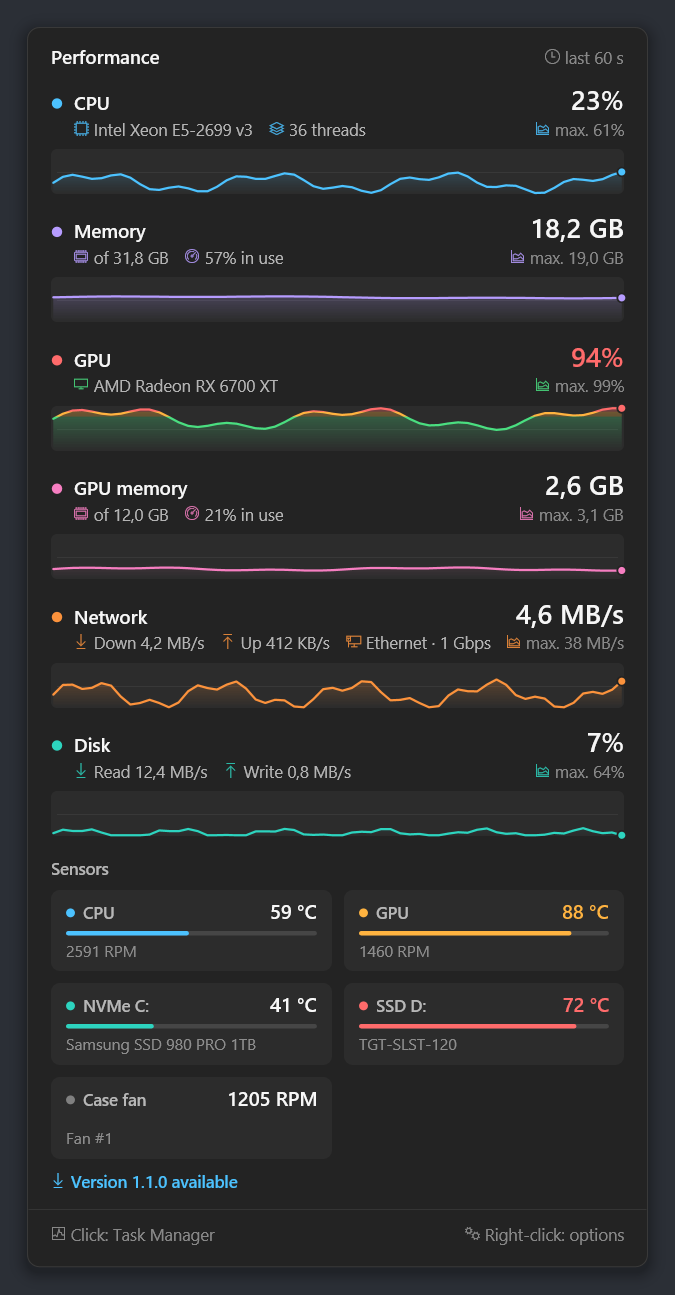
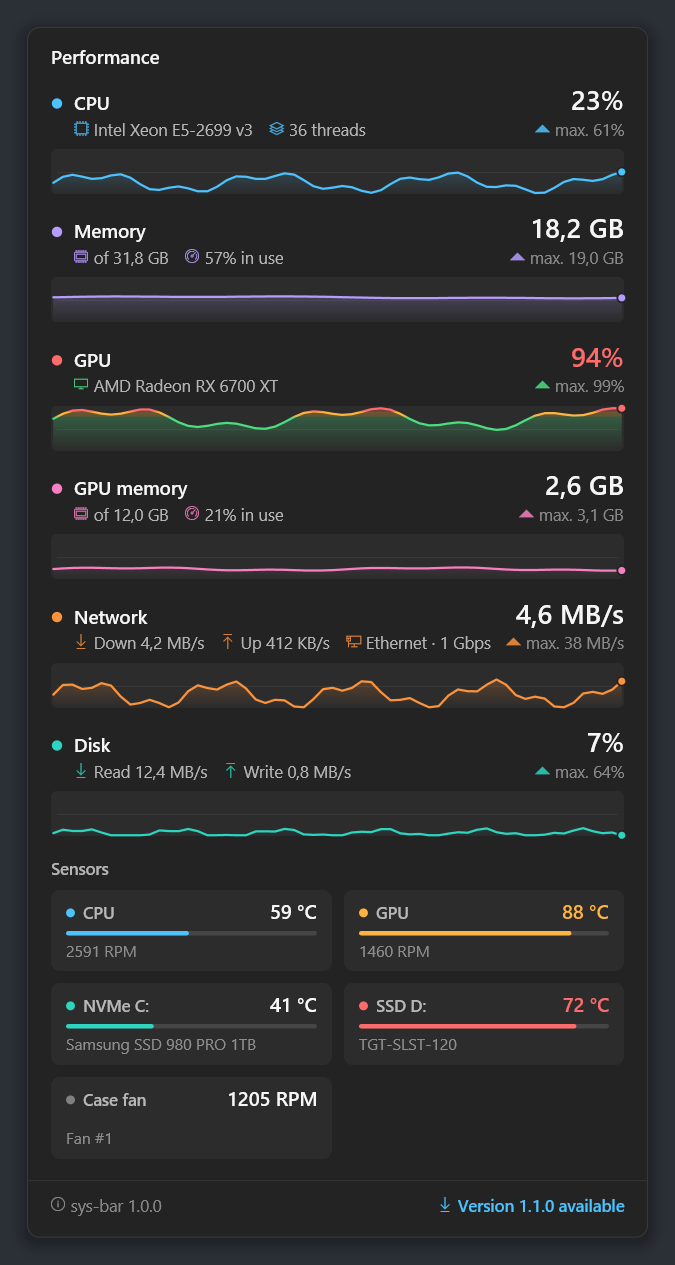
fix: a refused sensors install leaves the service running; solid caret for the peak
The elevated install now reads and checks every file before stopping the running service, and starts it again on any failure (found by the end-to-end test with a tampered library: the install was refused, but the service had been stopped). Peak icon: solid caret up. CHANGELOG/README: multi-monitor, card icons and footer, hardened elevation; screenshots refreshed.

diff --git a/sensors/Installer.cs b/sensors/Installer.cs
@@ -38,16 +38,15 @@ namespace SysBar.Sensors
         {
             if (!IsAdministrator()) return ExitNotAdmin;
             string source = AppDomain.CurrentDomain.BaseDirectory;
+            bool stopped = false;
             try
             {
-                // Our own image first, through a handle that also blocks renames: the running file cannot be
-                // swapped under us between now and the copy.
-                byte[] self = Manifest.ReadLocked(Path.Combine(source, ExeName));
-                StopService();
-
+                // Everything is read and checked before the running service is touched: a refused install
+                // leaves the installed one exactly as it was, running. Our own image is read through a
+                // handle that also blocks renames, so the running file cannot be swapped under us.
+                var files = new List<KeyValuePair<string, byte[]>>();
                 if (!SamePath(source, Target))
                 {
-                    Directory.CreateDirectory(Target);
                     Dictionary<string, string>? manifest = Manifest.Load();
                     if (manifest == null) Log.Write("install: development build (no manifest), copying by file type");
                     IEnumerable<string> names = manifest?.Keys ??
@@ -62,15 +61,27 @@ namespace SysBar.Sensors
                             Log.Write($"install refused: {name} does not match this release");
                             return ExitFailed;
                         }
-                        Manifest.WriteAtomic(Path.Combine(Target, name), data);
+                        files.Add(new KeyValuePair<string, byte[]>(name, data));
                     }
-                    Manifest.WriteAtomic(Path.Combine(Target, ExeName), self);
+                    files.Add(new KeyValuePair<string, byte[]>(ExeName, Manifest.ReadLocked(Path.Combine(source, ExeName))));
+                }
+
+                stopped = true;
+                StopService();
+                if (files.Count > 0)
+                {
+                    Directory.CreateDirectory(Target);
+                    foreach (var file in files) Manifest.WriteAtomic(Path.Combine(Target, file.Key), file.Value);
                 }
 
                 if (!DriverInstalled("PawnIO"))
                 {
                     int result = InstallPawnIO(source);
-                    if (result != ExitOk) return result;
+                    if (result != ExitOk)
+                    {
+                        TryStartService();
+                        return result;
+                    }
                 }
 
                 string exe = Path.Combine(Target, "sys-bar-sensors.exe");
@@ -96,7 +107,22 @@ namespace SysBar.Sensors
             catch (Exception e)
             {
                 Log.Write($"install failed: {e}");
+                if (stopped) TryStartService();  // never leave a working installation stopped
                 return ExitFailed;
+            }
+        }
+
+        private static void TryStartService()
+        {
+            try
+            {
+                if (!ServiceExists()) return;
+                using var service = new ServiceController(SensorService.Name);
+                if (service.Status == ServiceControllerStatus.Stopped) service.Start();
+            }
+            catch (Exception e)
+            {
+                Log.Write($"restart after a failed install failed: {e.Message}");
             }
         }
 

diff --git a/src/icons.h b/src/icons.h
@@ -14,7 +14,7 @@ constexpr wchar_t kDown = 0xE896;     // read / download
 constexpr wchar_t kUp = 0xE898;       // write / upload
 constexpr wchar_t kEthernet = 0xE839;
 constexpr wchar_t kWifi = 0xE701;
-constexpr wchar_t kPeak = 0xE9D2;   // area chart
+constexpr wchar_t kPeak = 0xEDDB;   // solid caret up
 constexpr wchar_t kPower = 0xE945;  // lightning bolt
 constexpr wchar_t kBattery = 0xEBA7;
 constexpr wchar_t kCharging = 0xEBB5;

diff --git a/CHANGELOG.md b/CHANGELOG.md
@@ -31,6 +31,11 @@ First public release.
   utilization in the strip and a self-scaling graph in the card. Off by default, enabled from the menu.
 - Battery (laptops only): charge, charging state, power in watts and time left; amber at 20% and red at 10%
   when unplugged.
+- A strip on every taskbar: other monitors too (Windows 10 classic and Windows 11 layouts), each with its own
+  size, DPI and hover card; monitors coming and going are followed live. "Show on all taskbars" in the menu.
+  On Windows 11, where the clock has no window of its own, its position is measured through UI Automation.
+- Icons in the card's details (processor, memory, GPU, drive, read/write, network, peak, battery) and a footer
+  with the version and the update status (checking, up to date, new version available).
 - The card always fits the screen: drives are shown side by side, and on short screens it widens, then
   shortens its graphs, instead of running off the screen. Long texts wrap instead of being cut.
 - Temperatures without drivers or administrator rights: GPU temperature and fan speed (WDDM 2.7+), NVMe/SSD
@@ -49,6 +54,10 @@ First public release.
 - Recovers automatically when Explorer restarts, the GPU driver resets or the display layout
   changes; pauses sampling while the display is off or the session is locked.
 - Installer (per-user, no administrator rights, x64 and ARM64) and portable zips.
+- Hardened elevation: the one elevated step (installing the advanced sensors) takes nothing on trust from the
+  per-user folder it starts from: every library must match a SHA-256 manifest built into the executable, and
+  the PawnIO installer a pinned hash. Silent updates never ask for elevation; removal runs the copy in Program
+  Files. Once releases are code-signed, updates must carry the same signature.
 - Optional advanced sensors (x64): CPU temperature, motherboard/controller fans and SATA drive temperatures
   through a small LocalSystem service built on LibreHardwareMonitorLib and the PawnIO driver. It is enabled
   from the installer or the menu (one UAC prompt), runs from Program Files, publishes through read-only shared

diff --git a/README.pt-BR.md b/README.pt-BR.md
@@ -42,6 +42,8 @@
     nomes genéricos às fans, o menu deixa você dizer qual é qual.
 - **Rede e bateria.** Download e upload com a velocidade do link (opcional, pelo menu). Em notebooks, a carga
   da bateria, o consumo em watts e o tempo restante; âmbar em 20% e vermelho em 10% fora da tomada.
+- **Todos os monitores.** Uma faixa em cada barra de tarefas, no Windows 10 e no Windows 11, acompanhando os
+  monitores conforme são conectados e desconectados.
 - **Se atualiza sozinho.** Consulta as Releases do GitHub uma vez por dia. As atualizações são verificadas por
   SHA-256 e instaladas em silêncio.
 - **Card ao passar o mouse.** Mostra o modelo do hardware, os picos e um gráfico do último minuto

diff --git a/README.md b/README.md
@@ -41,6 +41,8 @@
     you say which is which.
 - **Network and battery.** Download and upload with the link speed (optional, from the menu). On laptops, the
   battery charge, power draw in watts and time left; amber at 20% and red at 10% when unplugged.
+- **Every monitor.** A strip on each taskbar, on Windows 10 and Windows 11, following monitors as they come
+  and go.
 - **Updates itself.** A daily check of GitHub Releases. Updates are verified by SHA-256 and installed silently.
 - **Hover card.** Shows the hardware model, peaks and a one-minute graph per metric. History above
   80% / 92% load turns amber / red. It always fits the screen: drives sit side by side, and on short
